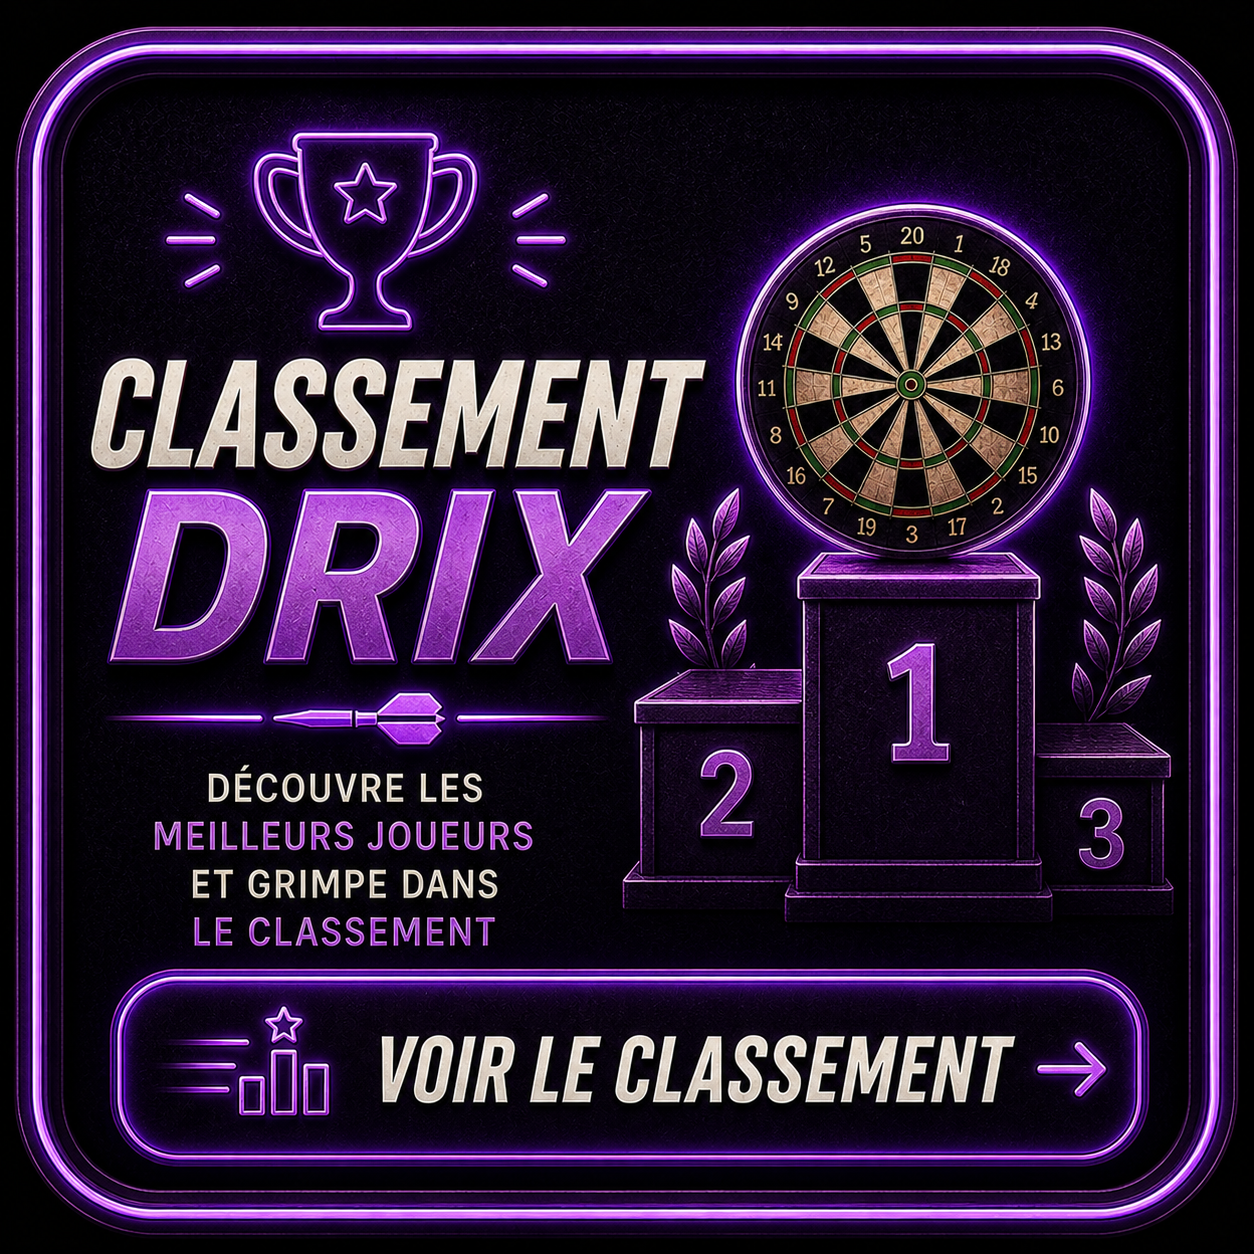
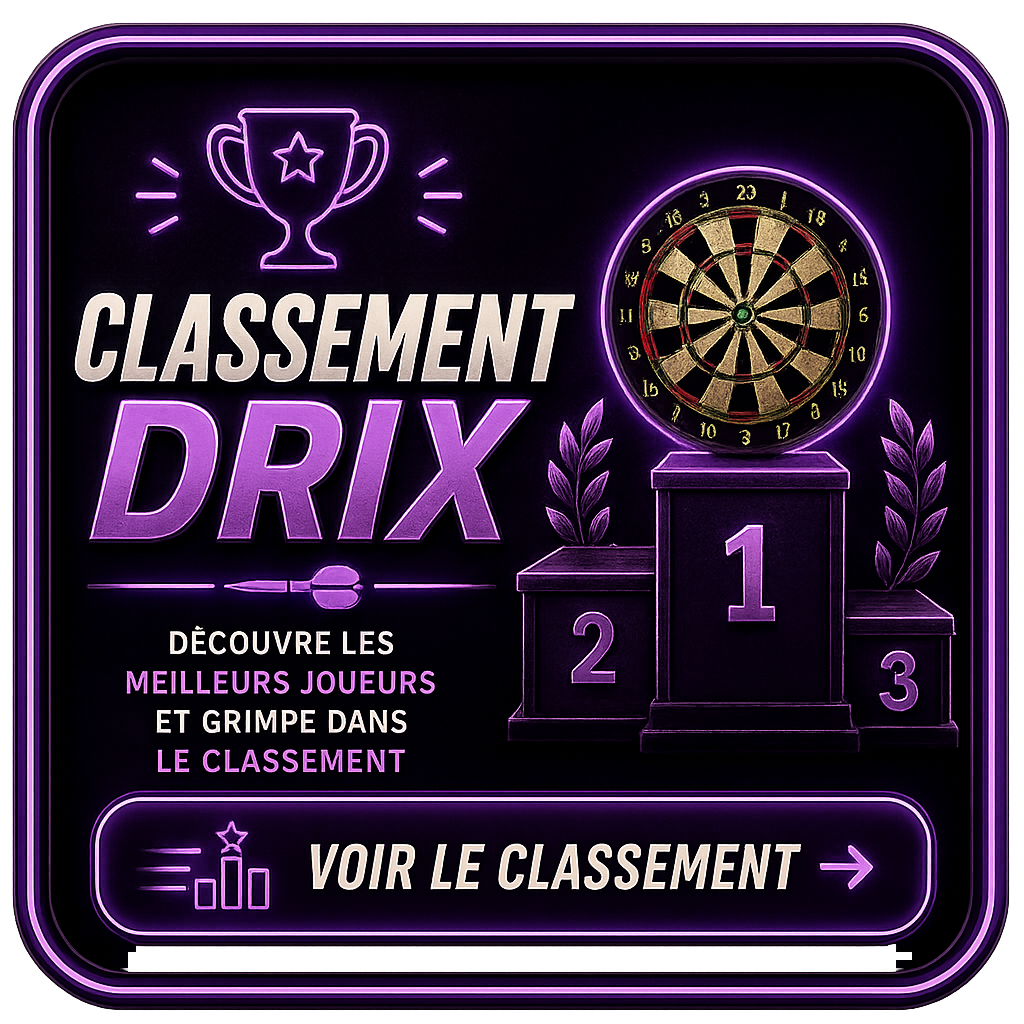
Nouveau système DRIX bonus perf + dashboard images 21 + boutons alignés + KPI connexions
- Bonus performance DRIX : +7/manche gagnée, +7/grosse volée ≥120, +10/gros finish ≥120 (plafond 80)
- Live toasts pendant la partie pour chaque bonus déclenché
- FinScreen détaillé avec breakdown ELO + bonus par joueur
- Wall post avec résumé complet DRIX après chaque duel classé
- Rollback complet 501 : snapshot capture mancheEnCours/mancheStart/manchesHistory
- Bouton Retour dans popup de finish + message de confirmation d'annulation
- KPI admin "Connexions aujourd'hui" avec refresh 30s + modal détail joueurs
- Dashboard 6 boutons en grille 2×3 uniformes (paddingTop:100%)
- Images dashboard remplacées par versions 21 (lecomptoir3, defi2, classement, minijeux2, scoreur2, trouve ton spot)

diff --git a/src/AppJeux.jsx b/src/AppJeux.jsx
@@ -87,7 +87,7 @@ const AnimCount = ({ target, duration=1400, prefix="", suffix="" }) => {
 const SB_URL_J = "https://secuyejzngzhnnuweuwm.supabase.co";
 const SB_KEY_J = "sb_publishable_kx6R8ywhyheCFwYMlYwSdA_L9MfqWyC";
 
-const FinScreen = ({ gagnant, duel, drixData, modeDuel, moyenne, demarrer, quitterPartie, joueurs: joueursData=[], manchesDetail=[] }) => {
+const FinScreen = ({ gagnant, duel, drixData, drixBreakdown=null, modeDuel, moyenne, demarrer, quitterPartie, joueurs: joueursData=[], manchesDetail=[] }) => {
   const [show, setShow] = useState(false);
   const [drixShow, setDrixShow] = useState(false);
   const [winnerPhoto, setWinnerPhoto] = useState(null);
@@ -202,20 +202,67 @@ const FinScreen = ({ gagnant, duel, drixData, modeDuel, moyenne, demarrer, quitt
           ) : (
             <>
               <p style={{ fontWeight:700,fontSize:15,color:"#22c55e",marginBottom:12,textAlign:"center" }}>✅ Résultat enregistré !</p>
-              {drixData && drixShow && (
+
+              {/* ── Breakdown détaillé si disponible ── */}
+              {drixBreakdown && drixShow ? (() => {
+                const bkC = drixBreakdown.challenger;
+                const bkD = drixBreakdown.defie;
+                const gagnantIsC = gagnant?.nom === duel?.challenger_pseudo;
+                const bkW = gagnantIsC ? bkC : bkD;
+                const bkL = gagnantIsC ? bkD : bkC;
+                const wNom = gagnant?.nom;
+                const lNom = perdantNom;
+                const DrixLine = ({ label, val, color="#94a3b8" }) => val !== 0 ? (
+                  <div style={{ display:"flex",justifyContent:"space-between",fontSize:12,padding:"3px 0",borderBottom:"1px solid #ffffff0a" }}>
+                    <span style={{ color:"#64748b" }}>{label}</span>
+                    <span style={{ fontWeight:700,color }}>{val>0?"+":""}{val} DRIX</span>
+                  </div>
+                ) : null;
+                return (
+                  <div style={{ display:"flex",gap:10,marginBottom:12,flexWrap:"wrap" }}>
+                    {/* Gagnant */}
+                    <div style={{ flex:1,minWidth:140,background:"#0f1a0f",border:"1px solid #22c55e33",borderRadius:14,padding:"14px 12px" }}>
+                      <div style={{ fontSize:12,color:"#86efac",fontWeight:800,marginBottom:10,textAlign:"center" }}>🏆 {wNom}</div>
+                      <DrixLine label="ELO" val={bkW.eloVariation} color={bkW.eloVariation>=0?"#22c55e":"#ef4444"}/>
+                      {bkW.bonus.bonusManches>0 && <DrixLine label={`💎 ${bkW.bonus.bonusManches/7} manche(s)`} val={bkW.bonus.bonusManches} color="#f59e0b"/>}
+                      {bkW.bonus.nbGrossesVolees>0 && <DrixLine label={`🔥 ${bkW.bonus.nbGrossesVolees} grosse(s) volée(s)`} val={bkW.bonus.bonusVolees} color="#f97316"/>}
+                      {bkW.bonus.nbGrosFinish>0 && <DrixLine label={`🏆 ${bkW.bonus.nbGrosFinish} gros finish`} val={bkW.bonus.bonusFinish} color="#a78bfa"/>}
+                      <div style={{ marginTop:10,paddingTop:8,borderTop:"1px solid #22c55e44",textAlign:"center" }}>
+                        <span style={{ fontSize:11,color:"#86efac" }}>TOTAL </span>
+                        <span style={{ fontSize:22,fontWeight:900,color:"#22c55e" }}>
+                          {bkW.totalVariation>=0?"+":""}<AnimCount target={Math.abs(bkW.totalVariation)} duration={1200}/>
+                        </span>
+                        <span style={{ fontSize:14,fontWeight:900,color:"#22c55e" }}> DRIX</span>
+                      </div>
+                    </div>
+                    {/* Perdant */}
+                    <div style={{ flex:1,minWidth:140,background:"#1a0a0a",border:"1px solid #ef444433",borderRadius:14,padding:"14px 12px" }}>
+                      <div style={{ fontSize:12,color:"#fca5a5",fontWeight:800,marginBottom:10,textAlign:"center" }}>💔 {lNom}</div>
+                      <DrixLine label="ELO" val={bkL.eloVariation} color={bkL.eloVariation>=0?"#22c55e":"#ef4444"}/>
+                      {bkL.bonus.bonusManches>0 && <DrixLine label={`💎 ${bkL.bonus.bonusManches/7} manche(s)`} val={bkL.bonus.bonusManches} color="#f59e0b"/>}
+                      {bkL.bonus.nbGrossesVolees>0 && <DrixLine label={`🔥 ${bkL.bonus.nbGrossesVolees} grosse(s) volée(s)`} val={bkL.bonus.bonusVolees} color="#f97316"/>}
+                      {bkL.bonus.nbGrosFinish>0 && <DrixLine label={`🏆 ${bkL.bonus.nbGrosFinish} gros finish`} val={bkL.bonus.bonusFinish} color="#a78bfa"/>}
+                      <div style={{ marginTop:10,paddingTop:8,borderTop:"1px solid #ef444433",textAlign:"center" }}>
+                        <span style={{ fontSize:11,color:"#fca5a5" }}>TOTAL </span>
+                        <span style={{ fontSize:22,fontWeight:900,color:bkL.totalVariation>=0?"#22c55e":"#ef4444" }}>
+                          {bkL.totalVariation>=0?"+":""}<AnimCount target={Math.abs(bkL.totalVariation)} duration={1200}/>
+                        </span>
+                        <span style={{ fontSize:14,fontWeight:900,color:bkL.totalVariation>=0?"#22c55e":"#ef4444" }}> DRIX</span>
+                      </div>
+                    </div>
+                  </div>
+                );
+              })() : drixData && drixShow && (
+                /* fallback simple si pas encore de breakdown */
                 <div style={{ display:"flex",gap:10,marginBottom:12 }}>
                   <div style={{ flex:1,background:"#14532d",borderRadius:12,padding:"12px 10px",textAlign:"center" }}>
                     <div style={{ fontSize:11,color:"#86efac",marginBottom:4 }}>🏆 {gagnant?.nom}</div>
-                    <div style={{ fontWeight:900,fontSize:28,color:"#22c55e" }}>
-                      +<AnimCount target={dxGagnant?.gain||0} duration={1200}/>
-                    </div>
+                    <div style={{ fontWeight:900,fontSize:28,color:"#22c55e" }}>+<AnimCount target={dxGagnant?.gain||0} duration={1200}/></div>
                     <div style={{ fontSize:10,color:"#86efac" }}>DRIX gagnés</div>
                   </div>
                   <div style={{ flex:1,background:"#7f1d1d",borderRadius:12,padding:"12px 10px",textAlign:"center" }}>
                     <div style={{ fontSize:11,color:"#fca5a5",marginBottom:4 }}>💔 {perdantNom}</div>
-                    <div style={{ fontWeight:900,fontSize:28,color:"#ef4444" }}>
-                      −<AnimCount target={dxPerdant?.perte||0} duration={1200}/>
-                    </div>
+                    <div style={{ fontWeight:900,fontSize:28,color:"#ef4444" }}>−<AnimCount target={dxPerdant?.perte||0} duration={1200}/></div>
                     <div style={{ fontSize:10,color:"#fca5a5" }}>DRIX perdus</div>
                   </div>
                 </div>
@@ -311,7 +358,7 @@ const FinScreen = ({ gagnant, duel, drixData, modeDuel, moyenne, demarrer, quitt
     </div>
   );
 };
-import { finaliserDuel } from "./AppJoueurs";
+import { finaliserDuel, calculerBonusPerformance } from "./AppJoueurs";
 
 // ── AppJeux.jsx ───────────────────────────────────────────────────────────────
 // Table de checkout exacte — source : darts501.com
@@ -414,6 +461,10 @@ export const Scoreur = ({ duel = null, drixData = null, onDuelTermine = null, se
   // Valeurs cumulatives au début de la manche courante (tours/flechettes/points sont cumulatifs)
   const [mancheStart, setMancheStart] = useState({ vol:[0,0], pts:[0,0], nbtours:[0,0], flechettes:[0,0] });
   const [pendingVolee, setPendingVolee] = useState(null); // { val, type:"finish"|"zero" }
+  const [drixBreakdown, setDrixBreakdown] = useState(null); // breakdown détaillé post-match
+  const [liveBonusNotif, setLiveBonusNotif] = useState(null); // { label, color, points }
+  const bonusAccumRef = useRef([0, 0]); // bonus cumulés en live [j0, j1]
+  const [bonusAccum, setBonusAccum] = useState([0, 0]);
 
   // ── Live session tracking ──
   const liveIdRef = useRef(null);
@@ -632,7 +683,43 @@ export const Scoreur = ({ duel = null, drixData = null, onDuelTermine = null, se
           date: Date.now(),
         })
       });
-      await finaliserDuel({ ...duel, gagnant_id: gagnantId });
+
+      // ── Calcul bonus de performance ──
+      const perfBonus = duel.type !== "amical" && joueursData.length >= 2
+        ? calculerBonusPerformance(joueursData, manchesDetail)
+        : null;
+
+      const breakdown = await finaliserDuel({ ...duel, gagnant_id: gagnantId }, perfBonus);
+      if (breakdown) setDrixBreakdown(breakdown);
+
+      // ── Post Comptoir (duels classés uniquement) ──
+      if (duel.type !== "amical" && breakdown) {
+        const bkC = breakdown.challenger;
+        const bkD = breakdown.defie;
+        const perdantNom = gagnantIsChallenger ? duel.defie_pseudo : duel.challenger_pseudo;
+        const bkW = gagnantIsChallenger ? bkC : bkD;
+        const bkL = gagnantIsChallenger ? bkD : bkC;
+        const fmtLine = (b) => [
+          b.eloVariation >= 0 ? `+${b.eloVariation} DRIX ELO` : `${b.eloVariation} DRIX ELO`,
+          b.bonus.bonusManches > 0 ? `+${b.bonus.bonusManches} 💎 manches gagnées` : "",
+          b.bonus.bonusVolees > 0 ? `+${b.bonus.bonusVolees} 🔥 grosses volées` : "",
+          b.bonus.bonusFinish > 0 ? `+${b.bonus.bonusFinish} 🏆 gros finish` : "",
+        ].filter(Boolean).join("\n");
+        // Highlights
+        const j0 = joueursData[0]; const j1 = joueursData[1];
+        const all180 = [...(j0?.tours||[]),...(j1?.tours||[])].filter(v=>v===180).length;
+        const highlights = [
+          all180 > 0 ? `💥 ${all180}×180 dans ce match` : "",
+          manchesDetail.some(m=>(m.winner_finish||0)>=160) ? `🐟 Big Fish ≥ 160 !` : "",
+        ].filter(Boolean).join("  ");
+        const contenu = `🏆 ${gagnantNom} bat ${perdantNom} ${scoreC}-${scoreD}\n\n${gagnantNom}\n${fmtLine(bkW)}\n🔥 TOTAL : ${bkW.totalVariation>=0?"+":""}${bkW.totalVariation} DRIX\n\n${perdantNom}\n${fmtLine(bkL)}\n🔥 TOTAL : ${bkL.totalVariation>=0?"+":""}${bkL.totalVariation} DRIX${highlights ? "\n\n"+highlights : ""}`;
+        fetch(`${SB_URL}/rest/v1/wall_posts`, {
+          method:"POST",
+          headers:{ "apikey":SB_KEY,"Authorization":`Bearer ${SB_KEY}`,"Content-Type":"application/json","Prefer":"return=minimal" },
+          body: JSON.stringify({ joueur_id:gagnantId, joueur_pseudo:gagnantNom, joueur_photo:null, contenu, date:Date.now() }),
+        }).catch(()=>{});
+      }
+
       setResultEnregistre(true);
       if (onDuelTermine) onDuelTermine({ gagnantId });
     } catch(e) { console.error("Erreur enregistrement duel:", e); }
@@ -763,6 +850,14 @@ export const Scoreur = ({ duel = null, drixData = null, onDuelTermine = null, se
     setJoueurs(updatedN);
     setActifIdx(1 - actifIdx); setInput("");
     pushLiveVolee(actifIdx, val, false, false, updatedN);
+    // 🔥 Live bonus notification — grosse volée ≥ 120
+    if (val >= 120 && modeDuel && duel?.type !== "amical") {
+      const pts = 7;
+      bonusAccumRef.current[actifIdx] += pts;
+      setBonusAccum([...bonusAccumRef.current]);
+      setLiveBonusNotif({ label:`🔥 ${val} pts ! Grosse volée`, points:pts, color:"#f97316" });
+      setTimeout(() => setLiveBonusNotif(null), 2500);
+    }
   };
 
   // Appelé après sélection du nb de fléchettes dans la popup
@@ -809,6 +904,20 @@ export const Scoreur = ({ duel = null, drixData = null, onDuelTermine = null, se
       setMancheEnCours(nextManche);
       setJoueurs(updated.map(j => ({ ...j, score: modeDuel ? parseInt(duel?.mode||"501") : startVal, scorePrecedent: null })));
       pushLiveVolee(actifIdx, val, false, true, updated);
+      // 🏆 Live bonus — gros finish ≥ 120 + grosse volée ≥ 120
+      if (modeDuel && duel?.type !== "amical") {
+        let notifLabel = ""; let notifPts = 0;
+        if (val >= 120) {
+          // finish ≥ 120 : +10 bonus finish + +7 bonus volée
+          bonusAccumRef.current[actifIdx] += 17;
+          setBonusAccum([...bonusAccumRef.current]);
+          notifLabel = `🏆 Finish ${val} ! Grosse volée + Gros finish`; notifPts = 17;
+        }
+        if (notifPts > 0) {
+          setLiveBonusNotif({ label:notifLabel, points:notifPts, color:"#a78bfa" });
+          setTimeout(() => setLiveBonusNotif(null), 2800);
+        }
+      }
       setActifIdx(nextStart); return;
     }
 
@@ -953,6 +1062,7 @@ export const Scoreur = ({ duel = null, drixData = null, onDuelTermine = null, se
       gagnant={gagnant}
       duel={duel}
       drixData={drixData}
+      drixBreakdown={drixBreakdown}
       modeDuel={modeDuel}
       moyenne={moyenne}
       demarrer={demarrer}
@@ -983,6 +1093,17 @@ export const Scoreur = ({ duel = null, drixData = null, onDuelTermine = null, se
     }}>
       <style>{`.scoreur-wrap button { touch-action: manipulation; -webkit-tap-highlight-color: transparent; user-select: none; } .scoreur-wrap button:active { opacity: 0.7; transform: scale(0.95); }`}</style>
       {showConfirmQuitter && <ModalConfirmQuitter/>}
+
+      {/* ── LIVE BONUS NOTIFICATION ── */}
+      {liveBonusNotif && (
+        <div style={{ position:"fixed",top:60,left:"50%",transform:"translateX(-50%)",zIndex:10001,
+          background:"linear-gradient(135deg,#1a0a2e,#2d1458)",border:`1px solid ${liveBonusNotif.color}66`,
+          borderRadius:16,padding:"14px 22px",textAlign:"center",boxShadow:`0 4px 30px ${liveBonusNotif.color}44`,
+          pointerEvents:"none",minWidth:220 }}>
+          <div style={{ fontSize:13,color:"#e2e8f0",fontWeight:700,marginBottom:4 }}>{liveBonusNotif.label}</div>
+          <div style={{ fontSize:22,fontWeight:900,color:liveBonusNotif.color }}>+{liveBonusNotif.points} DRIX 💎</div>
+        </div>
+      )}
 
       {/* ── MESSAGE ANNULATION ── */}
       {annulMsg && (
@@ -1079,10 +1200,12 @@ export const Scoreur = ({ duel = null, drixData = null, onDuelTermine = null, se
               </div>
               {modeDuel && drixData && (() => {
                 const d = realIdx === 0 ? drixData.challenger : drixData.defie;
+                const bAcc = bonusAccum[realIdx] || 0;
                 return (
-                  <div style={{ fontSize:11, marginTop:4, display:"flex", gap:6 }}>
+                  <div style={{ fontSize:11, marginTop:4, display:"flex", gap:6, flexWrap:"wrap" }}>
                     <span style={{ background:"#14532d", color:"#22c55e", borderRadius:6, padding:"1px 6px", fontWeight:800 }}>+{d.gain}</span>
                     <span style={{ background:"#7f1d1d", color:"#ef4444", borderRadius:6, padding:"1px 6px", fontWeight:800 }}>-{d.perte}</span>
+                    {bAcc > 0 && <span style={{ background:"#3b1d6e", color:"#a78bfa", borderRadius:6, padding:"1px 6px", fontWeight:800 }}>+{bAcc}🔥</span>}
                     <span style={{ color: isActif?"#ffffff99":"#94a3b866", fontSize:10, alignSelf:"center" }}>DRIX</span>
                   </div>
                 );

diff --git a/src/AppJoueurs.jsx b/src/AppJoueurs.jsx
@@ -3058,37 +3058,96 @@ const dbDrix = {
   getHallOfFame: () => sbJ("drix_historique?order=saison.desc,classement.asc&select=*"),
 };
 
-export const appliquerDrixDuel = async (duel) => {
+// ── Bonus de performance (manches + grosses volées + gros finishes) ───────────
+// joueursData: [{nom, manchesGagnees, tours:[],...}, ...]  (index 0=challenger, 1=defie)
+// manchesDetail: [{winner, winner_finish,...}, ...]
+export const calculerBonusPerformance = (joueursData = [], manchesDetail = []) => {
+  const BONUS_MANCHE = 7;   // par manche gagnée
+  const BONUS_VOLEE  = 7;   // par volée ≥ 120
+  const BONUS_FINISH = 10;  // par finish ≥ 120
+  const PLAFOND      = 80;  // cap anti-abus par joueur par match
+
+  return joueursData.map(j => {
+    const manchesGagnees = j.manchesGagnees || 0;
+    const bonusManches   = manchesGagnees * BONUS_MANCHE;
+
+    // Grosses volées ≥ 120 (y compris les finishes)
+    const toutes = j.tours || [];
+    const grossesVolees = toutes.filter(v => v >= 120);
+    const bonusVolees   = grossesVolees.length * BONUS_VOLEE;
+
+    // Gros finishes ≥ 120 (manches gagnées par ce joueur avec finish ≥ 120)
+    const grossesFinishes = manchesDetail.filter(
+      m => m.winner === j.nom && (m.winner_finish || 0) >= 120
+    );
+    const bonusFinish = grossesFinishes.length * BONUS_FINISH;
+
+    const totalBrut = bonusManches + bonusVolees + bonusFinish;
+    const total     = Math.min(totalBrut, PLAFOND);
+
+    return {
+      bonusManches,
+      bonusVolees,
+      bonusFinish,
+      nbGrossesVolees: grossesVolees.length,
+      nbGrosFinish:    grossesFinishes.length,
+      total,
+    };
+  });
+};
+
+export const appliquerDrixDuel = async (duel, perfBonus = null) => {
   // Partie amicale → aucune variation DRIX
-  if (duel.type === "amical") return;
+  if (duel.type === "amical") return null;
   try {
     const [jC, jD] = await Promise.all([dbJ.getJoueur(duel.challenger_id), dbJ.getJoueur(duel.defie_id)]);
-    if (!jC || !jD) return;
+    if (!jC || !jD) return null;
     const drixC = jC.drix || 1000;
     const drixD = jD.drix || 1000;
     const challengerGagne = duel.gagnant_id === duel.challenger_id;
     const manches = Math.max(1, duel.manches || 1);
-    const { variationA, variationB } = calculerDrix(drixC, drixD, challengerGagne, { K: 32 * manches });
-    const newDrixC = Math.max(100, drixC + variationA);
-    const newDrixD = Math.max(100, drixD + variationB);
+    const K = 32 * manches;
+
+    // Probabilités ELO pures
+    const EA = 1 / (1 + Math.pow(10, (drixD - drixC) / 400));
+    const EB = 1 - EA;
+    const eloC = challengerGagne ? +Math.round(K * EB) : -Math.round(K * EA);
+    const eloD = challengerGagne ? -Math.round(K * EB) : +Math.round(K * EA);
+
+    // Bonus performance
+    const bonusC = perfBonus?.[0]?.total || 0;
+    const bonusD = perfBonus?.[1]?.total || 0;
+
+    const variationC = eloC + bonusC;
+    const variationD = eloD + bonusD;
+
+    const newDrixC = Math.max(100, drixC + variationC);
+    const newDrixD = Math.max(100, drixD + variationD);
     await Promise.all([
       dbDrix.updateDrix(jC.id, newDrixC),
       dbDrix.updateDrix(jD.id, newDrixD),
-      dbDrix.addMouvement({ joueur_id:jC.id, joueur_pseudo:jC.pseudo, adversaire_pseudo:jD.pseudo, variation:variationA, drix_avant:drixC, drix_apres:newDrixC, resultat:challengerGagne?"victoire":"defaite", duel_id:duel.id, date:Date.now() }),
-      dbDrix.addMouvement({ joueur_id:jD.id, joueur_pseudo:jD.pseudo, adversaire_pseudo:jC.pseudo, variation:variationB, drix_avant:drixD, drix_apres:newDrixD, resultat:challengerGagne?"defaite":"victoire", duel_id:duel.id, date:Date.now() }),
+      dbDrix.addMouvement({ joueur_id:jC.id, joueur_pseudo:jC.pseudo, adversaire_pseudo:jD.pseudo, variation:variationC, drix_avant:drixC, drix_apres:newDrixC, resultat:challengerGagne?"victoire":"defaite", duel_id:duel.id, date:Date.now() }),
+      dbDrix.addMouvement({ joueur_id:jD.id, joueur_pseudo:jD.pseudo, adversaire_pseudo:jC.pseudo, variation:variationD, drix_avant:drixD, drix_apres:newDrixD, resultat:challengerGagne?"defaite":"victoire", duel_id:duel.id, date:Date.now() }),
     ]);
-  } catch(e) { console.error("Erreur DRIX:", e); }
+
+    // Retourne le détail pour affichage
+    return {
+      challenger: { eloVariation:eloC, bonus:perfBonus?.[0]||{bonusManches:0,bonusVolees:0,bonusFinish:0,total:0}, totalVariation:variationC },
+      defie:      { eloVariation:eloD, bonus:perfBonus?.[1]||{bonusManches:0,bonusVolees:0,bonusFinish:0,total:0}, totalVariation:variationD },
+    };
+  } catch(e) { console.error("Erreur DRIX:", e); return null; }
 };
 
 // Finalise un duel : DRIX + stats en un seul appel (utilisé par AppJeux)
-export const finaliserDuel = async (duel) => {
-  await appliquerDrixDuel(duel);
+export const finaliserDuel = async (duel, perfBonus = null) => {
+  const breakdown = await appliquerDrixDuel(duel, perfBonus);
   const gagnantId = duel.gagnant_id;
   const [sC, sD] = await Promise.all([dbJ.getStats(duel.challenger_id), dbJ.getStats(duel.defie_id)]);
   await Promise.all([
     sC && dbJ.updateStats(sC.id, { parties:sC.parties+1, victoires:gagnantId===duel.challenger_id?sC.victoires+1:sC.victoires, defaites:gagnantId!==duel.challenger_id?sC.defaites+1:sC.defaites }),
     sD && dbJ.updateStats(sD.id, { parties:sD.parties+1, victoires:gagnantId===duel.defie_id?sD.victoires+1:sD.victoires, defaites:gagnantId!==duel.defie_id?sD.defaites+1:sD.defaites }),
   ]);
+  return breakdown;
 };
 
 // ── PAGE CLASSEMENT DRIX ──────────────────────────────────────────────────────

diff --git a/src/App.jsx b/src/App.jsx
@@ -1267,13 +1267,14 @@ const HomeDashboard = ({ joueur, setJoueur, setPage, bars, defisCount, demandesA
   const prog = getDrixProgression(j.drix || 1000);
 
   // Bouton image générique
-  const ImgBtn = ({ src, onClick, badge=0, h=null }) => (
-    <div onClick={onClick} style={{ position:"relative",cursor:"pointer",borderRadius:16,overflow:"hidden",userSelect:"none",touchAction:"manipulation",transition:"transform .15s, box-shadow .15s",...(h?{height:h}:{}) }}
+  const ImgBtn = ({ src, onClick, badge=0 }) => (
+    <div onClick={onClick}
+      style={{ position:"relative",cursor:"pointer",borderRadius:16,overflow:"hidden",userSelect:"none",touchAction:"manipulation",transition:"transform .15s, box-shadow .15s",width:"100%",paddingTop:"100%" }}
       onMouseEnter={e=>{e.currentTarget.style.transform="translateY(-3px)";e.currentTarget.style.boxShadow="0 12px 32px #00000088";}}
       onMouseLeave={e=>{e.currentTarget.style.transform="translateY(0)";e.currentTarget.style.boxShadow="none";}}>
-      <img src={src} alt="" style={{ width:"100%",display:"block",borderRadius:16,...(h?{height:"100%",objectFit:"cover"}:{}) }}/>
+      <img src={src} alt="" style={{ position:"absolute",inset:0,width:"100%",height:"100%",display:"block",borderRadius:16,objectFit:"cover" }}/>
       {badge>0 && (
-        <div style={{ position:"absolute",top:10,right:10,background:"#ef4444",color:"#fff",borderRadius:"50%",minWidth:24,height:24,display:"flex",alignItems:"center",justifyContent:"center",fontSize:13,fontWeight:900,boxShadow:"0 2px 8px #00000066" }}>
+        <div style={{ position:"absolute",top:10,right:10,background:"#ef4444",color:"#fff",borderRadius:"50%",minWidth:24,height:24,display:"flex",alignItems:"center",justifyContent:"center",fontSize:13,fontWeight:900,boxShadow:"0 2px 8px #00000066",zIndex:2 }}>
           {badge>9?"9+":badge}
         </div>
       )}
@@ -1394,16 +1395,12 @@ const HomeDashboard = ({ joueur, setJoueur, setPage, bars, defisCount, demandesA
         </div>
       </div>
 
-      {/* ── Grille 2×2 ── */}
-      <div style={{ display:"grid",gridTemplateColumns:"1fr 1fr",gap:10,marginBottom:10 }}>
-        <ImgBtn src="/lecomptoir3.png"  onClick={()=>setPage("communaute")}/>
-        <ImgBtn src="/defi2.png"       onClick={()=>setPage("defi")} badge={defisCount}/>
-        <ImgBtn src="/classement.png"  onClick={()=>setPage("drix")}/>
-        <ImgBtn src="/minijeux2.png"    onClick={()=>setPage("jeux-sans")}/>
-      </div>
-
-      {/* ── Scoreur + Trouve un bar ── */}
+      {/* ── Grille 2×3 — tous boutons même taille ── */}
       <div style={{ display:"grid",gridTemplateColumns:"1fr 1fr",gap:10 }}>
+        <ImgBtn src="/lecomptoir3.png"      onClick={()=>setPage("communaute")}/>
+        <ImgBtn src="/defi2.png"            onClick={()=>setPage("defi")} badge={defisCount}/>
+        <ImgBtn src="/classement.png"       onClick={()=>setPage("drix")}/>
+        <ImgBtn src="/minijeux2.png"        onClick={()=>setPage("jeux-sans")}/>
         <ImgBtn src="/scoreur2.png"         onClick={()=>setPage("jeux-flechettes")}/>
         <ImgBtn src="/trouve ton spot.png"  onClick={()=>setPage("bars")}/>
       </div>
